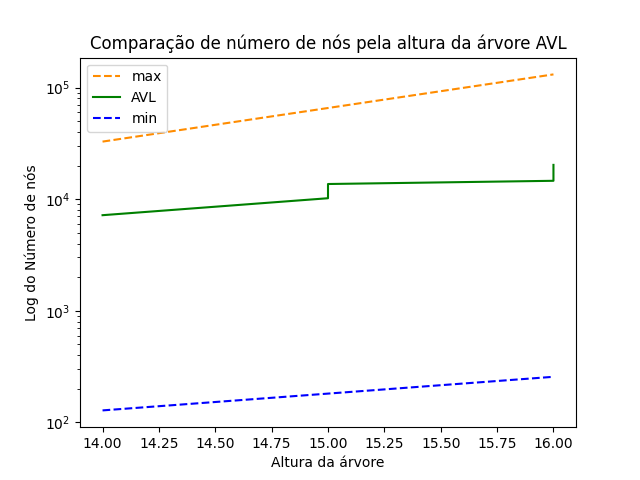
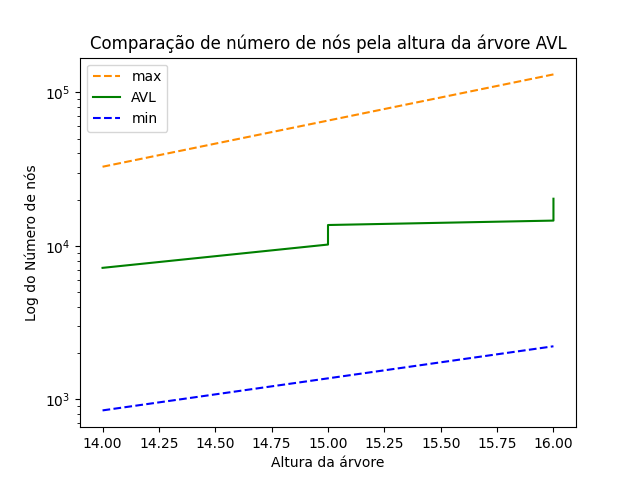
update relatorio.md, visualizations.py

diff --git a/docs/visualizations.py b/docs/visualizations.py
@@ -68,7 +68,7 @@ plt.close()
 plt.figure()
 plt.plot(avl['TreeHeight'], 2**(avl['TreeHeight'] + 1) -1, label="max", linestyle="--", color="darkorange")
 plt.plot(avl['TreeHeight'], avl['NumNodes'], label="AVL", color="green")
-plt.plot(avl['TreeHeight'], 2**(avl['TreeHeight']/2), label="min", linestyle="--", color="blue")
+plt.plot(avl['TreeHeight'], 2**(avl['TreeHeight']/1.44), label="min", linestyle="--", color="blue")
 plt.title("Comparação de número de nós pela altura da árvore AVL")
 plt.xlabel("Altura da árvore")
 plt.ylabel("Log do Número de nós")

diff --git a/docs/relatorio.md b/docs/relatorio.md
@@ -72,10 +72,9 @@ Nesta seção, apresentamos os resultados numéricos obtidos e uma discussão so
 ### 4.3. Número de Comparações
 #### **Figura 3: Número de Comparações por Inserção de Palavra**
 ![Figura 3](graphs/grafico_NumComparisonsInsertion.png)
-#### **Discussão:**
 #### **Figura 4: Número de Comparações por Busca de Palavra**
 ![Figura 4](graphs/grafico_NumComparisonsSearch.png)
-#### **Discussão:**
+#### **Discussão:** Nota-se que tanto na inserção, quanto na busca, a AVL faz menos comparações que a BST.
 
 ### 4.4. Altura da Árvore
 #### **Figura 5: Altura da Árvore**
@@ -108,15 +107,15 @@ Após a implementação das três estruturas de dados para aplicacação do índ
 
 ### 6.1. Árvore Binária de Busca (BST)
 
-* **Vantagens:**
-* **Desvantagens:**
-* **Observado:** 
+* **Vantagens:** Simplicidade de implementação, constituindo uma base para o entendimento de estruturas mais complexas.
+* **Desvantagens:** Suscetível à degeneração, onde a altura da árvore aproxima-se do número de nós, análogo a uma lista encadeada.
+* **Observado:** Os resultados confirmaram a tendência da BST ao desbalanceamento (Figuras 5 e 6), com uma altura significativamente maior e uma grande disparidade entre os galhos. Isso impactou diretamente seu tempo de busca (Figura 2), que foi o mais lento entre as estruturas.
 
-### 6.2. Árvore AVL (Adelson-Velsky e Landis)
+### 6.2. Árvore Adelson-Velsky e Landis (AVL)
 
-* **Vantagens:**
-* **Desvantagens:**
-* **Observado:** 
+* **Vantagens:** Garante um tempo de busca logarítmico, mantem a altura da árvore próxima do mínimo teórico.
+* **Desvantagens:** A manutenção do balanceamento estrito pode exigir rotações mais frequentes durante as inserções, o que pode aumentar o custo dessa operação.
+* **Observado:** A AVL manteve uma altura controlada e muito menor (Figura 5), resultando em número de comparações e tempo de busca (Figuras 2 e 4) consideravelmente inferiores aos da BST, provando sua eficácia para aplicações focadas em consulta.
 
 ### 6.3. Árvore Rubro-Negra (RBT)
 
@@ -126,6 +125,9 @@ Após a implementação das três estruturas de dados para aplicacação do índ
 
 ### 6.4. Recomendação Final 
 ## 7. Dificuldades Encontradas
+* **Complexidade de Implementação:** A lógica de auto-balanceamento, especialmente as rotações simples e duplas da AVL, foi desafiadora e exigiu depuração extensiva. 
+* **Trabalho em Equipe:** Coordenar a integração dos diferentes branchs desenvolvidas pelos membros e manter a consistência do código demandou comunicação eficaz e uso disciplinado do Git.
+
 ## 8. Divisão de Tarefas
 
 ### 8.1 Entrega 1
@@ -141,6 +143,6 @@ Após a implementação das três estruturas de dados para aplicacação do índ
 * **Henrique Coelho Beltrão:** Implementação das funções da AVL, testes unitários da AVL, refatoração do código;
 * **Henrique Gabriel Gasparelo:** Implementação das estatísticas para árvores;
 * **José Thevez Gomes Guedes:** Implementação das estatísticas para árvores e transição para CSV;
-* **Luiz Eduardo Bravin:** Implementação da análise comparativa das árvores e geração dos gráficos em Python e continuação da redação do relatório.
+* **Luiz Eduardo Bravin:** Implementação da análise comparativa das árvores, geração dos gráficos em Python e redação do relatório.
 
 ### 8.3 Entrega 3
